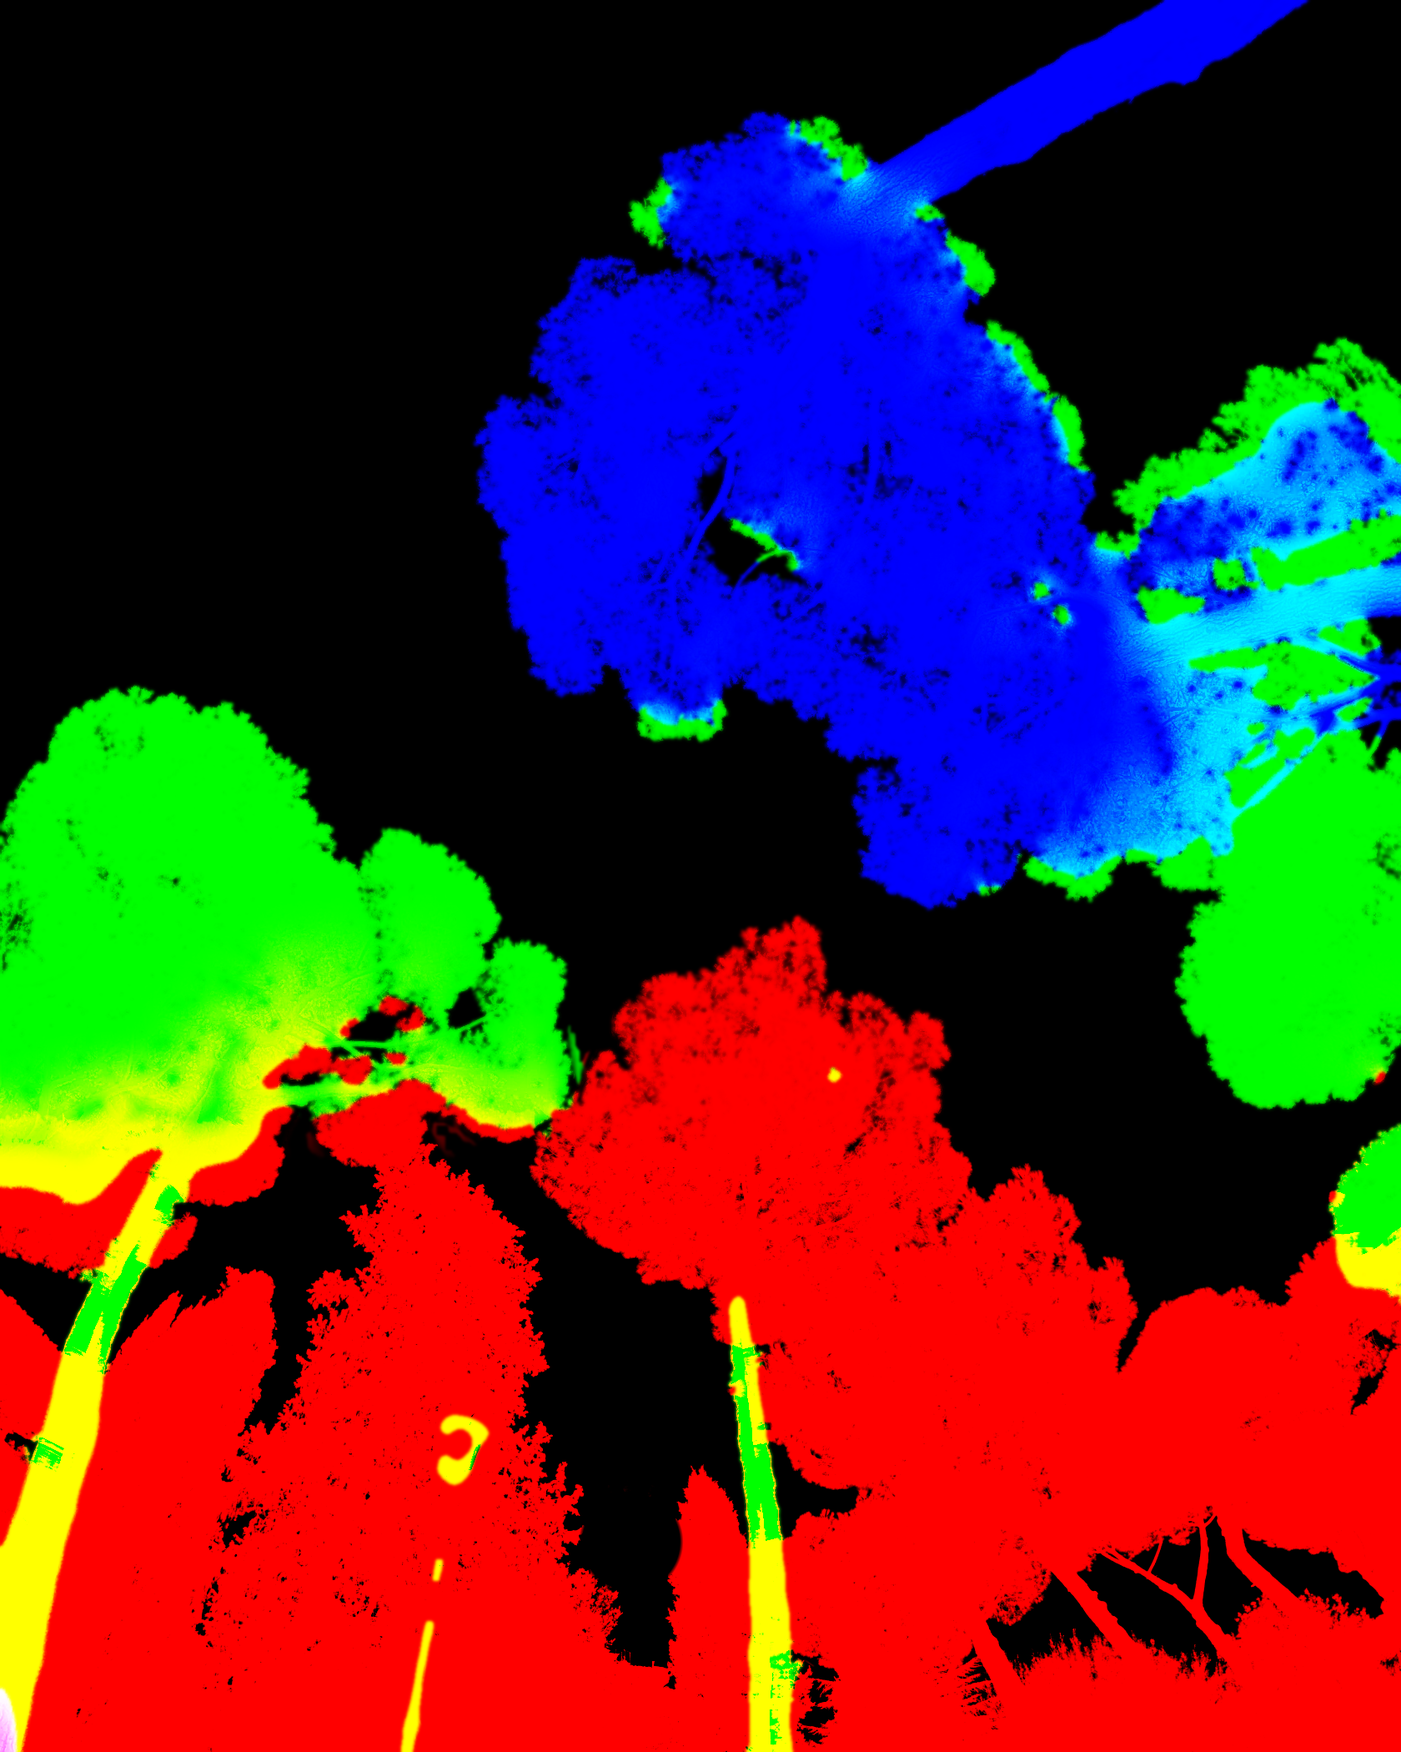
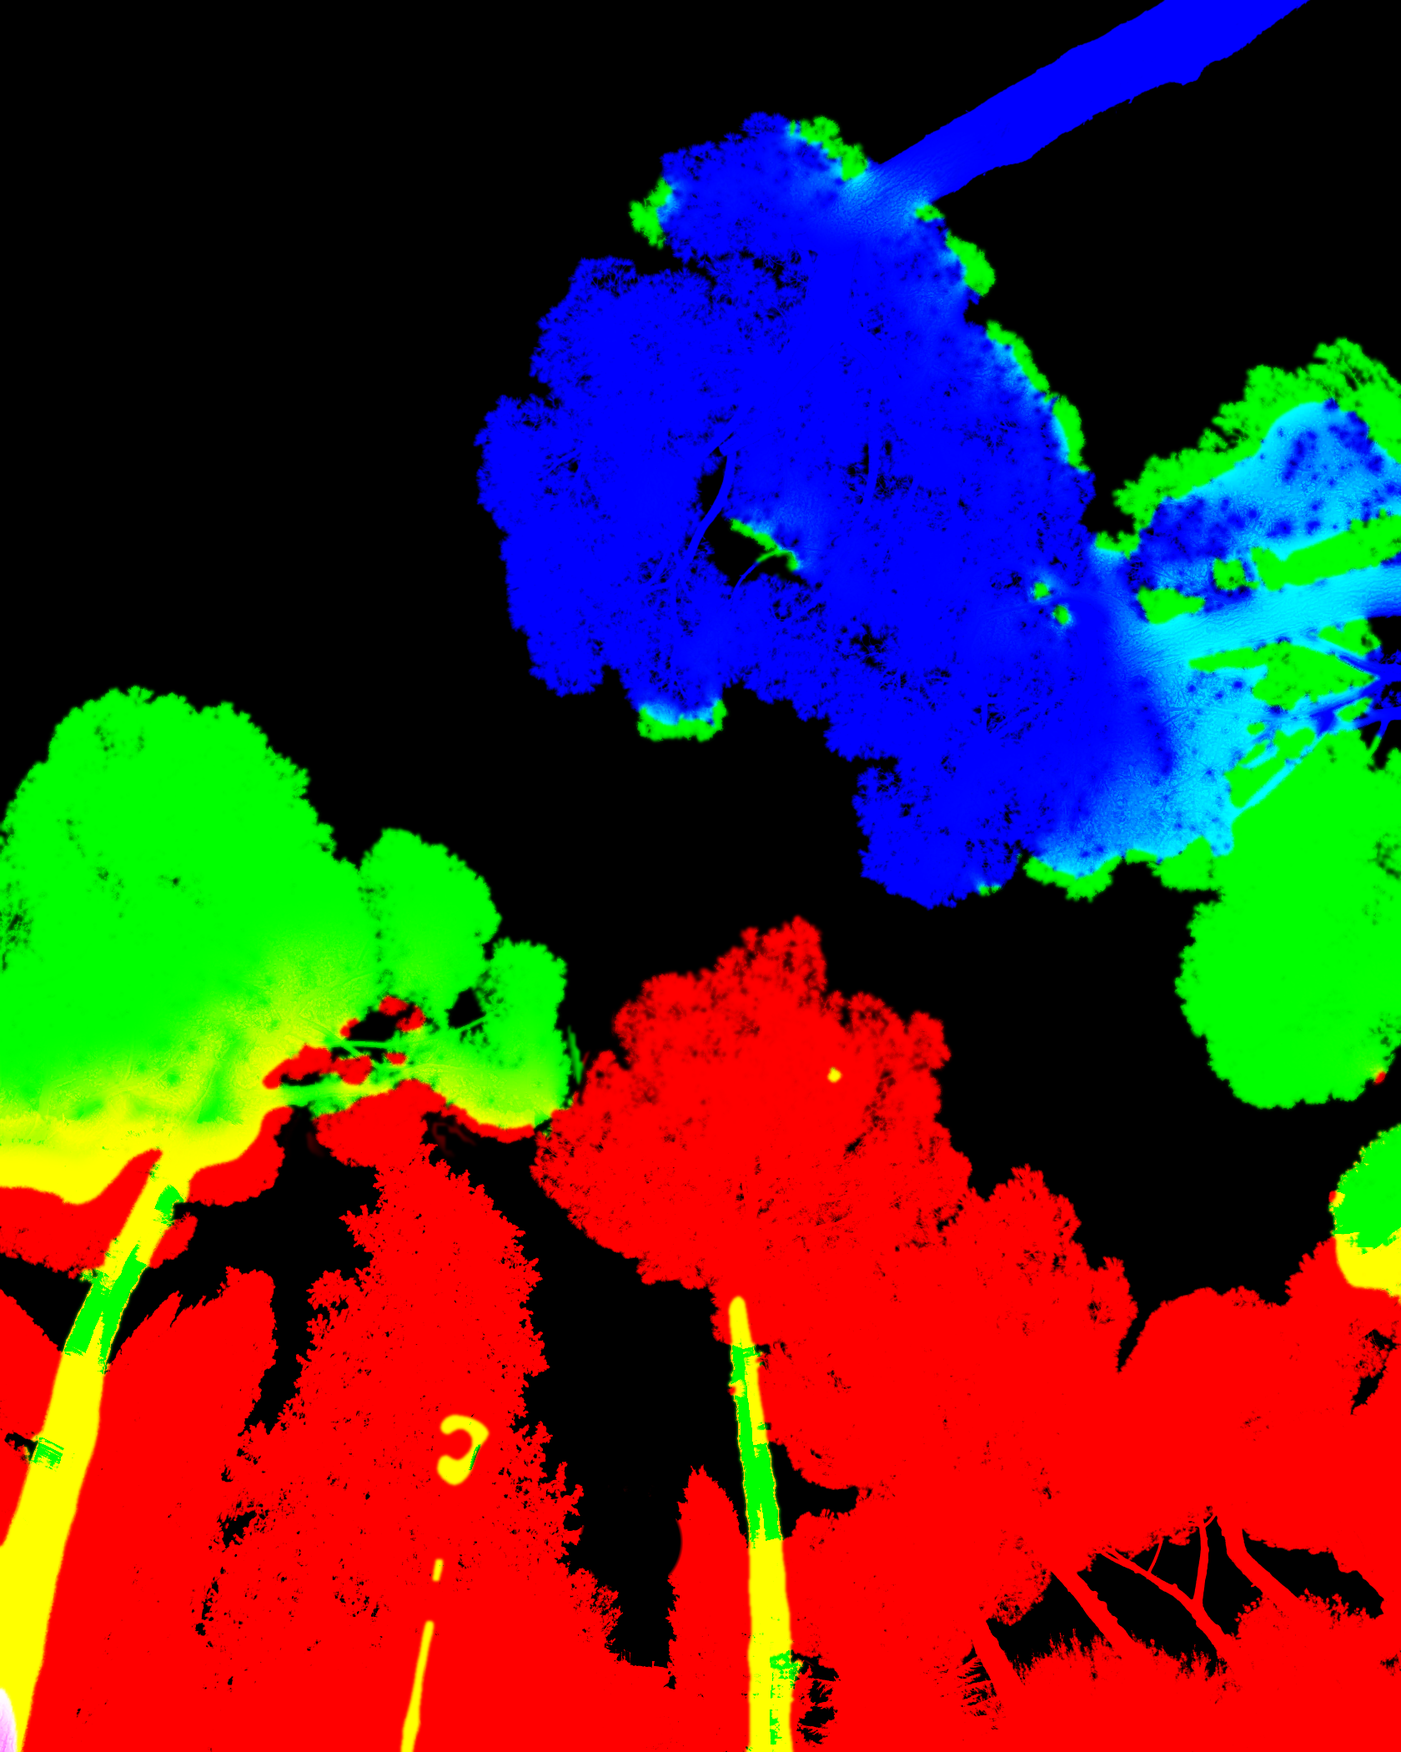
Lab: climb komorebi round 2
Claude-Session: https://claude.ai/code/session_01RqENhngNCzDFmJWDZueXGV

diff --git a/src/app/lab/komorebi/komorebiEngine.js b/src/app/lab/komorebi/komorebiEngine.js
@@ -65,7 +65,11 @@ import { createFilm, FILM_PRESETS } from "../_kit/film";
 // the sky's midtone chroma is eased back to a Superia cobalt; and the light
 // diffuses a few pixels through the emulsion (a thin warm halation ring
 // where a highlight meets the needles), so cloud and needle edges melt into
-// the sky instead of sitting on it as cutouts.
+// the sky instead of sitting on it as cutouts. The scan's softness is laid
+// on in the print too, and the overhead crown is kept out of both: rebaked
+// from the HDRI at full resolution (tools/depth/bakes/komorebi/crown.py),
+// it is the one sharp silhouette, its bark and needles crisp against the
+// soft cypresses and far crowns behind it.
 //
 // Query: ?t=seconds holds the simulation at that moment (deterministic);
 // with ?wind=0..1 a breath of that strength sets off at t = 0.5 s.
@@ -160,7 +164,9 @@ const FILM = {
   // drawing and are not lifted by the veil.
   bloom: 0.15,
   bloomThreshold: 1.25 * GAIN,
-  softness: 0.42,
+  // The scan's softness is applied in the print instead (SCAN), where the
+  // overhead crown can be kept out of it.
+  softness: 0,
   saturation: 1.12,
   blueDepth: 0.7,
   // A scan's black, kept low so the lower canopy is a silhouette, not a
@@ -234,6 +240,14 @@ const PRINT = {
   cobalt: 0.87, // sky chroma kept
   cobaltRange: [0.12, 0.6], // value where it starts; min channel (paleness) where it ends
 };
+// The scan's softness, as the film's own at 0.42: luma mixed this far with a
+// ring of taps this many texels out, the colour ratio with one further out.
+// Applied in the print to everything but the overhead crown (and a few
+// texels round it), which also keeps only a share of the emulsion's bleed
+// and none of its edge softening: the nearest thing is the one sharp
+// silhouette, the cypresses and far crowns keep their diffusion behind it.
+const SCAN = { luma: 0.42, lumaR: 0.878, chroma: 0.336, chromaR: 3 };
+const CRISP = { bleed: 0.25 };
 const BASE_EXPOSURE = 0.35; // stops, artistic, on top of 1/GAIN
 
 const VERT = `#version 300 es
@@ -517,7 +531,9 @@ void main() {
   vec3 gc = mix(uGlint.rgb, uHalo.rgb * (uGlint.r / uHalo.r), smoothstep(0.3, 1.3, gq));
   col += gc * open * open * glintEdge * facing * exp(-gq * gq) * smoothstep(0.2, 0.7, cov);
 
-  outColor = vec4(col * uGain, 1.0);
+  // Alpha carries the overhead crown's cover to the print, which keeps it
+  // out of the scan's softness and the emulsion's diffusion.
+  outColor = vec4(col * uGain, a2);
 }`;
 
 const BLIT = `#version 300 es
@@ -533,6 +549,9 @@ uniform vec4 uDiffuse;       // bleed into the dark, soften, inner radius, outer
 uniform vec4 uHalate;        // warm ring rgb, threshold (linear)
 uniform vec4 uToe;           // lifted toe rgb (print units), falloff power
 uniform vec3 uCobalt;        // chroma kept, value where it starts, paleness where it ends
+uniform sampler2D uScene;    // the scene: a is the overhead crown's cover
+uniform vec4 uScan;          // scan softness: luma share, luma offset, colour share, colour offset (texels)
+uniform float uCrispBleed;   // share of the bleed the crown keeps
 
 vec3 toLin(vec3 c) {
   return mix(c / 12.92, pow((c + 0.055) / 1.055, vec3(2.4)), step(0.04045, c));
@@ -557,8 +576,42 @@ vec3 holdHue(vec3 c) {
   return c;
 }
 
+// The overhead crown, and a few texels round it: the nearest thing, the one
+// sharp silhouette in the frame.
+float crisp() {
+  float k = texture(uScene, vUv).a;
+  for (int i = 0; i < 8; i++) {
+    float a = float(i) * 0.7853982;
+    vec2 o = vec2(cos(a), sin(a));
+    k = max(k, texture(uScene, vUv + o * uDiffuse.z * uTexel).a);
+    k = max(k, texture(uScene, vUv + o * uDiffuse.w * uTexel).a);
+  }
+  return smoothstep(0.04, 0.4, k);
+}
+
 void main() {
-  vec3 c = holdHue(texture(uTex, vUv).rgb);
+  float k = crisp();
+  vec3 c = texture(uTex, vUv).rgb;
+
+  // The scan's softness (the lens and the dye clouds): luma from a 1-2 texel
+  // spread, the colour ratio from a few texels, so colour creeps across
+  // edges while the drawing mostly holds. Everything but the crown.
+  if (k < 1.0) {
+    const float E = 0.004;
+    vec3 l0 = toLin(c);
+    vec2 o = uScan.y * uTexel;
+    vec2 q = uScan.w * uTexel;
+    vec3 sn = 0.25 * (toLin(texture(uTex, vUv + vec2(-o.x, -o.y)).rgb) + toLin(texture(uTex, vUv + vec2(o.x, -o.y)).rgb)
+      + toLin(texture(uTex, vUv + vec2(-o.x, o.y)).rgb) + toLin(texture(uTex, vUv + vec2(o.x, o.y)).rgb));
+    vec3 sc = 0.25 * (toLin(texture(uTex, vUv + vec2(-q.x, -q.y)).rgb) + toLin(texture(uTex, vUv + vec2(q.x, -q.y)).rgb)
+      + toLin(texture(uTex, vUv + vec2(-q.x, q.y)).rgb) + toLin(texture(uTex, vUv + vec2(q.x, q.y)).rgb));
+    const vec3 Lw = vec3(0.2126, 0.7152, 0.0722);
+    float y0 = dot(l0, Lw);
+    float ys = mix(y0, dot(sn, Lw), uScan.x);
+    vec3 hs = mix((l0 + E) / (y0 + E), (sc + E) / (dot(sc, Lw) + E), uScan.z);
+    c = toPrint(mix(max(hs * (ys + E) - E, 0.0), l0, k));
+  }
+  c = holdHue(c);
 
   // The print. The negative is printed on paper, and the paper's light
   // diffuses through the emulsion, so nothing sits on the sky as a cutout.
@@ -584,11 +637,11 @@ void main() {
   farL *= 0.125;
   hot *= 1.0 / 12.0;
   vec3 wide = mix(nearL, farL, 0.6);
-  lin = mix(lin, nearL, uDiffuse.y);
+  lin = mix(lin, nearL, uDiffuse.y * (1.0 - k));
   // Highlights spread furthest; the sky between needles only a little, so
   // the crown keeps its dark body and is not veiled.
   float wy = dot(wide, vec3(0.2126, 0.7152, 0.0722));
-  lin += uDiffuse.x * (0.3 + 0.7 * smoothstep(0.12, 0.6, wy)) * max(wide - lin, 0.0);
+  lin += uDiffuse.x * mix(1.0, uCrispBleed, k) * (0.3 + 0.7 * smoothstep(0.12, 0.6, wy)) * max(wide - lin, 0.0);
   // Halation: the bright light that went through the emulsion and came
   // back through the red layer, a thin warm ring where a highlight meets
   // something darker; none on the highlight itself.
@@ -1164,6 +1217,11 @@ export async function createKomorebi(host, { embedded = false } = {}) {
     gl.uniform4f(blit.u.uHalate, ...PRINT.halation, PRINT.halationThreshold);
     gl.uniform4f(blit.u.uToe, ...PRINT.toe, PRINT.toePower);
     gl.uniform3f(blit.u.uCobalt, PRINT.cobalt, ...PRINT.cobaltRange);
+    gl.activeTexture(gl.TEXTURE1);
+    gl.bindTexture(gl.TEXTURE_2D, sceneT.tex);
+    gl.uniform1i(blit.u.uScene, 1);
+    gl.uniform4f(blit.u.uScan, SCAN.luma, SCAN.lumaR, SCAN.chroma, SCAN.chromaR);
+    gl.uniform1f(blit.u.uCrispBleed, CRISP.bleed);
     gl.drawArrays(gl.TRIANGLES, 0, 3);
     gl.bindVertexArray(null);
   };

diff --git a/tools/depth/bakes/komorebi/crown.py b/tools/depth/bakes/komorebi/crown.py
@@ -1,0 +1,155 @@
+# Rebake the overhead crown (the near layer, layers.webp blue) from the 16K
+# HDRI at full resolution, so it is the one sharp thing in the frame.
+#
+# The crown had come through five generations of lossy WebP (export q90,
+# bark q92, clean q90, lowband q90) on top of a 2560 master, and clean.py had
+# feathered its matte (sigma 1.6 px): its bark and needles broke up into
+# blotches and its edges were soft. Here, from crown_render.py's render of
+# the HDRI at the asset's own geometry (2x supersampled, area-downsampled):
+#   1. the near matte is the sky's transmittance through the needles, from
+#      blue against a local foliage floor and a smooth robust clear-sky fit
+#      (as lowband.py), wherever the crown stands on open sky (no mid or far
+#      layer behind it, where the old matte is kept); the sunlit bark is
+#      marked from the render (warm and bright, closed, holes filled, as
+#      barkmask.py) and made solid; no feather beyond a 0.5 px antialias;
+#   2. the foliage light is the render's, unpremultiplied against that sky
+#      and filled outward into the gaps, carrying the old canopy's grade
+#      (the bark 1.3 stops down and browned) as a low-frequency offset in
+#      log (sigma 8 px), so the colour holds and only the drawing changes;
+#   3. canopy.webp is written lossless (q > 100) or lossy with sharp YUV,
+#      layers.webp lossless.
+#
+# Run in a folder holding crown_hdr.npy (crown_render.py) and the current
+# assets as canopy.orig.webp, layers.orig.webp:
+#     python3 -I crown.py '{"out":".../public/lab/komorebi/"}'
+import sys, os, json, numpy as np, cv2
+from PIL import Image
+
+P = {"out": "out/", "dead": 0.08, "aa": 0.5, "grade_sigma": 8.0, "q": 101}
+if len(sys.argv) > 1: P.update(json.loads(sys.argv[1]))
+LUM = np.array([.2126, .7152, .0722], np.float32)
+LO, HI = -14.0, 2.0
+
+
+def ell(n): return cv2.getStructuringElement(cv2.MORPH_ELLIPSE, (n, n))
+
+
+def pushpull(v, w, levels=8):
+    vs = [v * w[..., None]]; ws = [w]
+    for i in range(levels): vs.append(cv2.pyrDown(vs[-1])); ws.append(cv2.pyrDown(ws[-1]))
+    ov, ow = vs[-1], ws[-1]
+    for i in range(levels - 1, -1, -1):
+        uv = cv2.pyrUp(ov, dstsize=(vs[i].shape[1], vs[i].shape[0])); uw = cv2.pyrUp(ow, dstsize=(ws[i].shape[1], ws[i].shape[0]))
+        kk = np.clip(ws[i] * 4, 0, 1); ov = vs[i] + uv * (1 - kk[..., None]); ow = ws[i] + uw * (1 - kk)
+    return ov / np.maximum(ow, 1e-8)[..., None]
+
+
+y = np.load("crown_hdr.npy").astype(np.float32)
+H, W = y.shape[:2]
+c8 = np.asarray(Image.open("canopy.orig.webp").convert("RGB")).astype(np.float32)
+l8 = np.asarray(Image.open("layers.orig.webp").convert("RGB")).astype(np.float32) / 255
+Cold = c8[:H] / 255 * (HI - LO) + LO            # log2 foliage light
+Aold = l8[:H]
+near0, mid0, far0 = Aold[..., 2], Aold[..., 1], Aold[..., 0]
+yy, xx = np.mgrid[:H, :W].astype(np.float32)
+
+# ------------------------------------------------------------ clear sky fit
+B = y[..., 2]; br = B / (y.sum(-1) + 1e-6)
+sky = (br > 0.42) & (B > 0.8 * cv2.dilate(B, np.ones((31, 31), np.uint8)))
+
+
+def feats(X, Y):
+    a = X / W * 2 - 1; b = Y / H * 2 - 1
+    return np.stack([np.ones_like(a), a, b, a * a, a * b, b * b, a ** 3, a * a * b, a * b * b, b ** 3], -1)
+
+
+ys, xs = np.nonzero(sky[::3, ::3]); ys = ys * 3; xs = xs * 3
+Fm = feats(xs.astype(np.float32), ys.astype(np.float32))
+Z = np.log(np.maximum(y[ys, xs], 1e-5)); wt = np.ones(len(ys))
+for it in range(6):
+    coef = [np.linalg.lstsq(Fm * wt[:, None], Z[:, c] * wt, rcond=None)[0] for c in range(3)]
+    res = Z[:, 2] - Fm @ coef[2]
+    sd = 1.4826 * np.median(np.abs(res))
+    wt = 1 / (1 + (res / (2 * sd)) ** 2); wt[res < -3 * sd] = 0
+Fa = feats(xx, yy)
+S = np.exp(np.stack([Fa @ coef[c] for c in range(3)], -1)).astype(np.float32)
+del Fa
+print("sky fit residual sd", float(sd))
+
+# ------------------------------------------------------------ transmittance
+Fb = cv2.GaussianBlur(cv2.erode(B, np.ones((9, 9), np.uint8)), (0, 0), 4)
+Fb = np.minimum(Fb, 0.5 * S[..., 2])
+T = np.clip((B - Fb) / np.maximum(0.93 * S[..., 2] - Fb, 1e-5), 0, 1)
+T = np.clip((T - P["dead"]) / (1 - 2 * P["dead"]), 0, 1)
+An = 1 - T
+
+# the sunlit bark: warm and bright in the render, inside the crown
+rb = y[..., 0] / np.maximum(y[..., 2], 1e-5); rg = y[..., 0] / np.maximum(y[..., 1], 1e-5)
+nearz = cv2.dilate((near0 > 0.3).astype(np.uint8), ell(15)) > 0
+warm = ((rb > 1.5) & (rg > 1.05) & (y @ LUM > 0.05) & nearz).astype(np.uint8)
+n, cc, st, _ = cv2.connectedComponentsWithStats(warm, connectivity=8)
+keep = st[:, cv2.CC_STAT_AREA] >= 60; keep[0] = False
+mb = cv2.morphologyEx(keep[cc].astype(np.uint8), cv2.MORPH_CLOSE, ell(11))
+inv = (1 - mb).astype(np.uint8); n, cc, st, _ = cv2.connectedComponentsWithStats(inv, connectivity=4)
+border = np.zeros(n, bool); border[np.unique(np.concatenate([cc[0], cc[-1], cc[:, 0], cc[:, -1]]))] = True
+mb = np.maximum(mb, ((st[:, cv2.CC_STAT_AREA] < 1500) & ~border)[cc].astype(np.uint8)).astype(np.float32)
+An = np.maximum(An, cv2.GaussianBlur(mb, (0, 0), 0.7))
+print("bark px", int(mb.sum()))
+
+# where the new matte applies: the crown and a rim round it, on open sky only
+zone = (cv2.dilate((near0 > 0.03).astype(np.uint8), ell(9)) > 0) & (mid0 < 0.03) & (far0 < 0.03)
+behind = cv2.dilate(((mid0 > 0.03) | (far0 > 0.03)).astype(np.uint8), ell(5)) > 0
+zone &= ~behind
+wz = cv2.GaussianBlur(zone.astype(np.float32), (0, 0), 1.5) * zone
+# nothing new far outside the old crown: a dilated old matte caps it
+cap = cv2.dilate(near0, ell(9))
+An = np.minimum(An, np.clip(cap * 4, 0, 1))
+if P["aa"] > 0: An = cv2.GaussianBlur(An, (0, 0), P["aa"])
+An[An < 1.5 / 255] = 0
+Anew = near0 * (1 - wz) + An * wz
+
+# ------------------------------------------------------------ foliage light
+Fobs = np.maximum(y - T[..., None] * S, 0) / np.maximum(An, 1e-3)[..., None]
+Fobs = np.where(mb[..., None] > 0, y, Fobs)
+lF = np.log2(np.maximum(Fobs, 2 ** -14))
+solid = (An > 0.92).astype(np.float32)
+n5 = cv2.GaussianBlur(lF * solid[..., None], (0, 0), 5); d5 = cv2.GaussianBlur(solid, (0, 0), 5)
+n20 = cv2.GaussianBlur(lF * solid[..., None], (0, 0), 20); d20 = cv2.GaussianBlur(solid, (0, 0), 20)
+wl = np.clip(d5 / 0.2, 0, 1)[..., None]
+loc = n5 / np.maximum(d5, 1e-6)[..., None] * wl + n20 / np.maximum(d20, 1e-6)[..., None] * (1 - wl)
+lF = np.where((An < 0.97)[..., None], np.clip(lF, loc - 1.0, loc + 0.6), lF)
+wA = (np.clip((An - 0.35) / 0.5, 0, 1) ** 2).astype(np.float32)
+Ff = np.where(wA[..., None] > 0.6, lF, pushpull(lF, wA))
+
+# the old grade, carried as a low-frequency offset (bark graded, the rest ~0)
+both = ((An > 0.9) & (near0 > 0.9)).astype(np.float32)
+s = P["grade_sigma"]
+dnum = cv2.GaussianBlur((Cold - Ff) * both[..., None], (0, 0), s)
+dden = cv2.GaussianBlur(both, (0, 0), s)
+off = pushpull(dnum / np.maximum(dden, 1e-6)[..., None], np.clip(dden * 3, 0, 1).astype(np.float32))
+Cn = np.clip(Ff + off, LO, HI)
+print("grade offset p5/50/95 (stops)", np.percentile((off @ LUM)[both > 0], [5, 50, 95]).round(3))
+
+# the colour applies where the near layer is what the texel serves
+nz = cv2.dilate((np.maximum(Anew, near0) > 0.03).astype(np.uint8), ell(31)) > 0
+wc = np.maximum(wz, ((Anew > 0.9) & (near0 > 0.9)).astype(np.float32))
+wc = np.where(nz & ~behind, np.maximum(wc, 1.0), wc)
+wc = cv2.GaussianBlur(wc.astype(np.float32), (0, 0), 1.5)
+wc = np.clip(wc, 0, 1)[..., None]
+Cout = Cold * (1 - wc) + Cn * wc
+
+# ------------------------------------------------------------ write
+c8o = c8.copy(); l8o = l8.copy()
+c8o[:H] = (Cout - LO) / (HI - LO) * 255
+l8o[:H, :, 2] = Anew
+# untouched texels stay bit-identical to the decoded originals
+c8o = np.clip(c8o + 0.5, 0, 255).astype(np.uint8)
+l8o = np.clip(l8o * 255 + 0.5, 0, 255).astype(np.uint8)
+os.makedirs(P["out"], exist_ok=True)
+if P["q"] > 100:  # lossless
+    Image.fromarray(c8o).save(P["out"] + "canopy.webp", lossless=True, quality=100, method=6)
+else:
+    Image.fromarray(c8o).save(P["out"] + "canopy.webp", quality=P["q"], method=6, use_sharp_yuv=True)
+Image.fromarray(l8o).save(P["out"] + "layers.webp", lossless=True, quality=100, method=6)
+print("near cover old", float((near0 > 0.5).mean()), "new", float((Anew > 0.5).mean()),
+      "sizes", os.path.getsize(P["out"] + "canopy.webp"), os.path.getsize(P["out"] + "layers.webp"))

diff --git a/tools/depth/bakes/komorebi/crown_render.py b/tools/depth/bakes/komorebi/crown_render.py
@@ -1,0 +1,51 @@
+# Render the overhead crown's band (asset rows 0..y1) of the komorebi crop
+# straight from the 16K HDRI, at the asset's own geometry (same projection as
+# lowband.py), 2x supersampled and area-downsampled, so every asset px holds
+# the capture's own needle and bark detail, never a re-encoded one.
+#     python3 -I crown_render.py '{"hdr":"piazza_16k.hdr","out":"crown_hdr.npy"}'
+import sys, json, numpy as np, cv2
+
+P = {"y1": 1300, "ss": 2.0, "hdr": "piazza_16k.hdr", "out": "crown_hdr.npy"}
+if len(sys.argv) > 1: P.update(json.loads(sys.argv[1]))
+Y_, P_, F_, N_ = 36, -64, 140, 2560
+X0, Y0, CW, CH = 521, 94, 1680, 2100
+
+
+def rot(yaw, pitch):
+    p = np.radians(pitch); cp, sp = np.cos(p), np.sin(p)
+    Rx = np.array([[1, 0, 0], [0, cp, sp], [0, -sp, cp]])
+    t = np.radians(yaw); ct, st = np.cos(t), np.sin(t)
+    Ry = np.array([[ct, 0, st], [0, 1, 0], [-st, 0, ct]])
+    return Ry @ Rx
+
+
+def crop_uv(scale, y1, eqW, eqH):
+    w = int(round(CW * scale)); h = int(round(y1 * scale))
+    xs = (np.arange(w) + 0.5) / scale - 0.5 + X0
+    ys = (np.arange(h) + 0.5) / scale - 0.5 + Y0
+    x, y = np.meshgrid(xs - (N_ - 1) / 2, ys - (N_ - 1) / 2)
+    half = np.radians(F_) / 2; f = (N_ / 2) / (2 * np.tan(half / 2))
+    r = np.hypot(x, y); th = 2 * np.arctan(r / (2 * f))
+    s = np.where(r > 0, np.sin(th) / np.maximum(r, 1e-9), 0)
+    d = (np.stack([x * s, y * s, np.cos(th)], -1) @ rot(Y_, P_).T).astype(np.float32)
+    lon = np.arctan2(d[..., 0], d[..., 2]); lat = np.arcsin(np.clip(-d[..., 1], -1, 1))
+    u = ((lon / (2 * np.pi) + 0.5) * eqW - 0.5).astype(np.float32)
+    v = ((0.5 - lat / np.pi) * eqH - 0.5).astype(np.float32)
+    return u, v
+
+
+eq = cv2.imread(P["hdr"], cv2.IMREAD_ANYDEPTH | cv2.IMREAD_COLOR)
+eqH, eqW = eq.shape[:2]
+u, v = crop_uv(P["ss"], P["y1"], eqW, eqH)
+# the band may straddle the seam of the equirect: unwrap u round its median
+um = np.median(u); u = np.where(u - um > eqW / 2, u - eqW, np.where(um - u > eqW / 2, u + eqW, u))
+u0, v0 = int(np.floor(u.min())) - 4, max(int(np.floor(v.min())) - 4, 0)
+u1, v1 = int(np.ceil(u.max())) + 5, min(int(np.ceil(v.max())) + 5, eqH)
+cols = np.arange(u0, u1) % eqW
+sub = np.nan_to_num(eq[v0:v1][:, cols, ::-1].astype(np.float32), posinf=65504)
+del eq
+x = cv2.remap(sub, u - u0, v - v0, cv2.INTER_CUBIC, borderMode=cv2.BORDER_REPLICATE)
+del sub, u, v
+x = cv2.resize(np.maximum(x, 0), (CW, P["y1"]), interpolation=cv2.INTER_AREA)
+np.save(P["out"], x.astype(np.float16))
+print("rendered", x.shape, "lum p50/p99", np.percentile(x @ np.array([.2126, .7152, .0722]), [50, 99]))

diff --git a/tools/depth/bakes/komorebi/README.md b/tools/depth/bakes/komorebi/README.md
@@ -92,3 +92,26 @@ blends into the old assets over 110 rows. The engine presses the band to
 black (`SILHOUETTE`, `c / (c + 0.1)`).
 
     python3 -I lowband.py '{"hdr":"piazza_16k.hdr","out":".../public/lab/komorebi/"}'
+
+## overhead crown, rebaked from the HDRI
+
+The near layer (the stone-pine crown overhead) had come through five
+generations of lossy WebP on top of the 2560 master, and `clean.py` had
+feathered its matte: bark and needles broke into blotches. `crown_render.py`
+renders asset rows 0..1300 straight from the 16K HDRI at the asset's own
+geometry (2x supersampled, area-downsampled); `crown.py` then takes the near
+matte from the sky's transmittance through the needles (blue against a local
+foliage floor and a robust clear-sky fit, as `lowband.py`) wherever the crown
+stands on open sky (the old matte is kept where a mid or far crown is behind
+it), marks the sunlit bark solid (as `barkmask.py`), antialiases by 0.5 px
+only, and unpremultiplies the foliage light against that sky. The old
+canopy's grade (the bark 1.3 stops down and browned) rides on it as a
+low-frequency offset in log (sigma 8 px), so the colour holds and only the
+drawing changes. `canopy.webp` is written lossless (2.4 MB; lossy WebP's
+4:2:0 chroma floors at ~2.5 codes RMS on the needles even at q100), and
+`layers.webp` lossless. In the engine the crown is kept out of the scan's
+softness and the print's diffusion (see `SCAN`, `CRISP`), so it is the one
+sharp silhouette against the soft cypresses and far crowns.
+
+    python3 -I crown_render.py '{"hdr":"piazza_16k.hdr","out":"crown_hdr.npy"}'
+    python3 -I crown.py '{"out":".../public/lab/komorebi/","q":101}'
